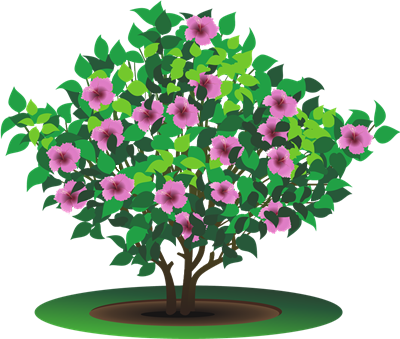
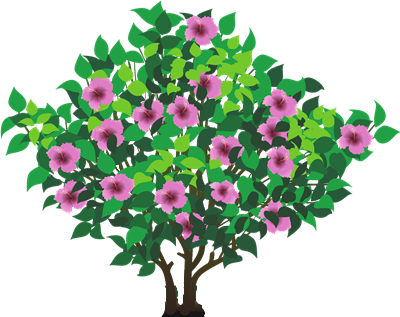
flowers

diff --git a/src/FlowerData.ts b/src/FlowerData.ts
@@ -3,9 +3,12 @@
  */
 
 import NoLeafFlowerImage from './resources/no_leaf_flower.png';
+import NoLeafShrubImage from './resources/no_leaf_shrub.png';
 import BellflowerImage from './resources/bellflower.png';
 import HibiscusImage from './resources/hibiscus.png';
+import HydrangeaImage from './resources/hydrangea.png';
 import HostaImage from './resources/hosta.png';
+import PeonyImage from './resources/peony.png';
 import RedRoseImage from './resources/red_rose.png';
 import SunflowerImage from './resources/sunflower.png';
 import TallBushImage from './resources/tall_bush.png';
@@ -23,6 +26,10 @@ export class FlowerData {
         return 1;
       case FlowerType.Hibiscus:
         return 2;
+      case FlowerType.Hydrangea:
+        return 2;
+      case FlowerType.Peony:
+        return 1.5;
       case FlowerType.RedRose:
         return 0.5;
       case FlowerType.Sunflower:
@@ -44,6 +51,10 @@ export class FlowerData {
         return 0.7;
       case FlowerType.Hibiscus:
         return 1.7;
+      case FlowerType.Hydrangea:
+        return 1.5;
+      case FlowerType.Peony:
+        return 1;
       case FlowerType.RedRose:
         return 0.8;
       case FlowerType.Sunflower:
@@ -63,8 +74,12 @@ export class FlowerData {
         return i18n.t('flower.Bellflower', lang);
       case FlowerType.Hibiscus:
         return i18n.t('flower.Hibiscus', lang);
+      case FlowerType.Hydrangea:
+        return i18n.t('flower.Hydrangea', lang);
       case FlowerType.Hosta:
         return i18n.t('flower.Hosta', lang);
+      case FlowerType.Peony:
+        return i18n.t('flower.Peony', lang);
       case FlowerType.RedRose:
         return i18n.t('flower.RedRose', lang);
       case FlowerType.Sunflower:
@@ -79,7 +94,15 @@ export class FlowerData {
   }
 
   static fetchTextureImage(name: string, noLeaves: boolean) {
-    if (noLeaves) return NoLeafFlowerImage;
+    if (noLeaves) {
+      if (name === FlowerType.Hibiscus || name === FlowerType.Hydrangea) {
+        return NoLeafShrubImage;
+      }
+      if (name === FlowerType.TallBush) {
+        return TallBushImage;
+      }
+      return NoLeafFlowerImage;
+    }
     let textureImg;
     switch (name) {
       case FlowerType.Bellflower:
@@ -88,8 +111,14 @@ export class FlowerData {
       case FlowerType.Hibiscus:
         textureImg = HibiscusImage;
         break;
+      case FlowerType.Hydrangea:
+        textureImg = HydrangeaImage;
+        break;
       case FlowerType.Hosta:
         textureImg = HostaImage;
+        break;
+      case FlowerType.Peony:
+        textureImg = PeonyImage;
         break;
       case FlowerType.RedRose:
         textureImg = RedRoseImage;

diff --git a/src/components/contextMenu/elementMenu/flowerSelection.tsx b/src/components/contextMenu/elementMenu/flowerSelection.tsx
@@ -9,7 +9,9 @@ import * as Selector from '../../../stores/selector';
 import { FlowerType } from '../../../types';
 import BellflowerImage from '../../../resources/bellflower.png';
 import HibiscusImage from '../../../resources/hibiscus.png';
+import HydrangeaImage from '../../../resources/hydrangea.png';
 import HostaImage from '../../../resources/hosta.png';
+import PeonyImage from '../../../resources/peony.png';
 import SunflowerImage from '../../../resources/sunflower.png';
 import TallBushImage from '../../../resources/tall_bush.png';
 import TulipImage from '../../../resources/tulip.png';
@@ -67,9 +69,17 @@ const FlowerSelection = () => {
         <img alt={FlowerType.Hibiscus} src={HibiscusImage} height={20} style={{ paddingRight: '19px' }} />{' '}
         {i18n.t('flower.Hibiscus', lang)}
       </Option>
+      <Option key={FlowerType.Hydrangea} value={FlowerType.Hydrangea}>
+        <img alt={FlowerType.Hydrangea} src={HydrangeaImage} height={20} style={{ paddingRight: '19px' }} />{' '}
+        {i18n.t('flower.Hydrangea', lang)}
+      </Option>
       <Option key={FlowerType.Hosta} value={FlowerType.Hosta}>
         <img alt={FlowerType.Hosta} src={HostaImage} height={20} style={{ paddingRight: '17px' }} />{' '}
         {i18n.t('flower.Hosta', lang)}
+      </Option>
+      <Option key={FlowerType.Peony} value={FlowerType.Peony}>
+        <img alt={FlowerType.Peony} src={PeonyImage} height={20} style={{ paddingRight: '17px' }} />{' '}
+        {i18n.t('flower.Peony', lang)}
       </Option>
       <Option key={FlowerType.TallBush} value={FlowerType.TallBush}>
         <img alt={FlowerType.TallBush} src={TallBushImage} height={20} style={{ paddingRight: '32px' }} />{' '}

diff --git a/src/i18n/zh_cn.ts b/src/i18n/zh_cn.ts
@@ -1132,6 +1132,8 @@ export const i18n_zh_cn = {
       Bellflower: '风铃草',
       Hibiscus: '木槿',
       Hosta: '玉簪',
+      Hydrangea: '绣球花',
+      Peony: '牡丹',
       RedRose: '红玫瑰',
       Sunflower: '向日葵',
       TallBush: '高灌木',

diff --git a/src/i18n/zh_tw.ts b/src/i18n/zh_tw.ts
@@ -1133,6 +1133,8 @@ export const i18n_zh_tw = {
       Bellflower: '風鈴草',
       Hibiscus: '木槿',
       Hosta: '玉簪',
+      Hydrangea: '繡球花',
+      Peony: '牡丹',
       RedRose: '紅玫瑰',
       Sunflower: '向日葵',
       TallBush: '高灌木',

diff --git a/src/i18n/en.ts b/src/i18n/en.ts
@@ -1150,6 +1150,8 @@ export const i18n_en = {
       Bellflower: 'Bellflower',
       Hibiscus: 'Hibiscus',
       Hosta: 'Hosta',
+      Hydrangea: 'Hydrangea',
+      Peony: 'Peony',
       RedRose: 'Red Rose',
       Sunflower: 'Sunflower',
       TallBush: 'Tall Bush',

diff --git a/src/i18n/es.ts b/src/i18n/es.ts
@@ -1150,6 +1150,8 @@ export const i18n_es = {
       Bellflower: 'Bellflower',
       Hibiscus: 'Hibiscus',
       Hosta: 'Hosta',
+      Hydrangea: 'Hydrangea',
+      Peony: 'Peony',
       RedRose: 'Red Rose',
       Sunflower: 'Sunflower',
       TallBush: 'Tall Bush',

diff --git a/src/i18n/tr.ts b/src/i18n/tr.ts
@@ -1150,6 +1150,8 @@ export const i18n_tr = {
       Bellflower: 'Bellflower',
       Hibiscus: 'Hibiscus',
       Hosta: 'Hosta',
+      Hydrangea: 'Hydrangea',
+      Peony: 'Peony',
       RedRose: 'Red Rose',
       Sunflower: 'Sunflower',
       TallBush: 'Tall Bush',

diff --git a/src/types.ts b/src/types.ts
@@ -336,6 +336,8 @@ export enum FlowerType {
   Bellflower = 'Bellflower',
   Hibiscus = 'Hibiscus',
   Hosta = 'Hosta',
+  Hydrangea = 'Hydrangea',
+  Peony = 'Peony',
   RedRose = 'Red Rose',
   Sunflower = 'Sunflower',
   TallBush = 'Tall Bush',
